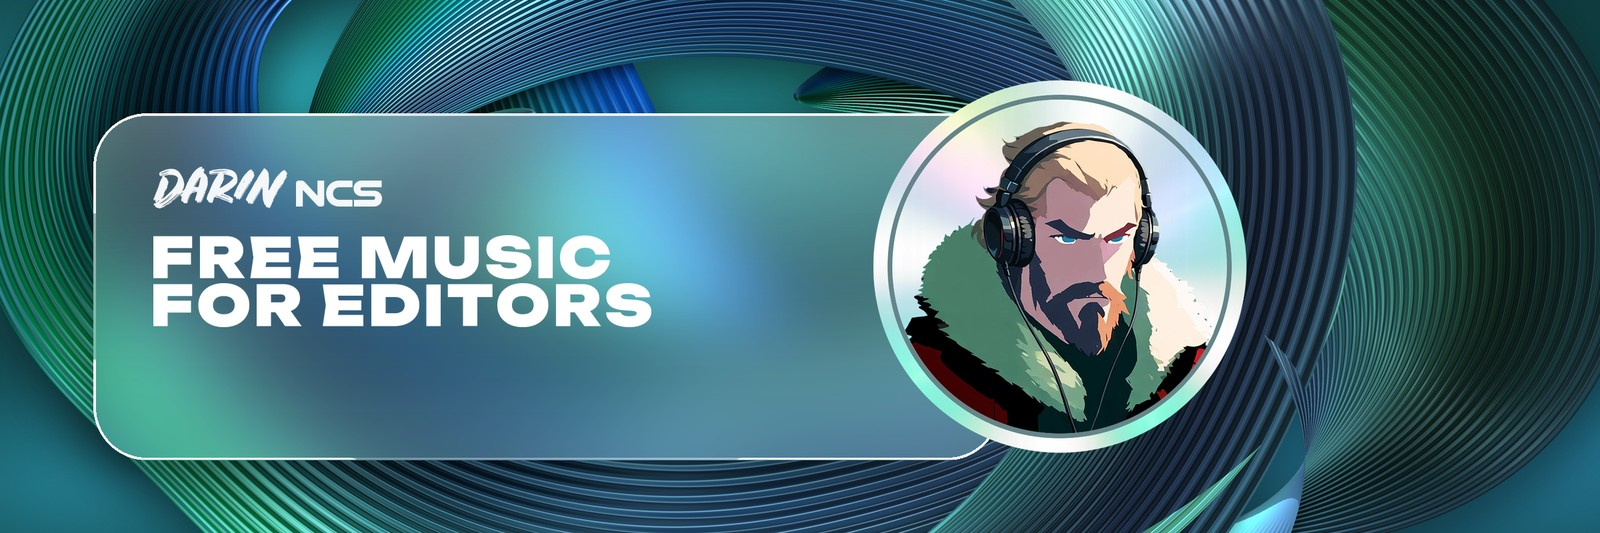
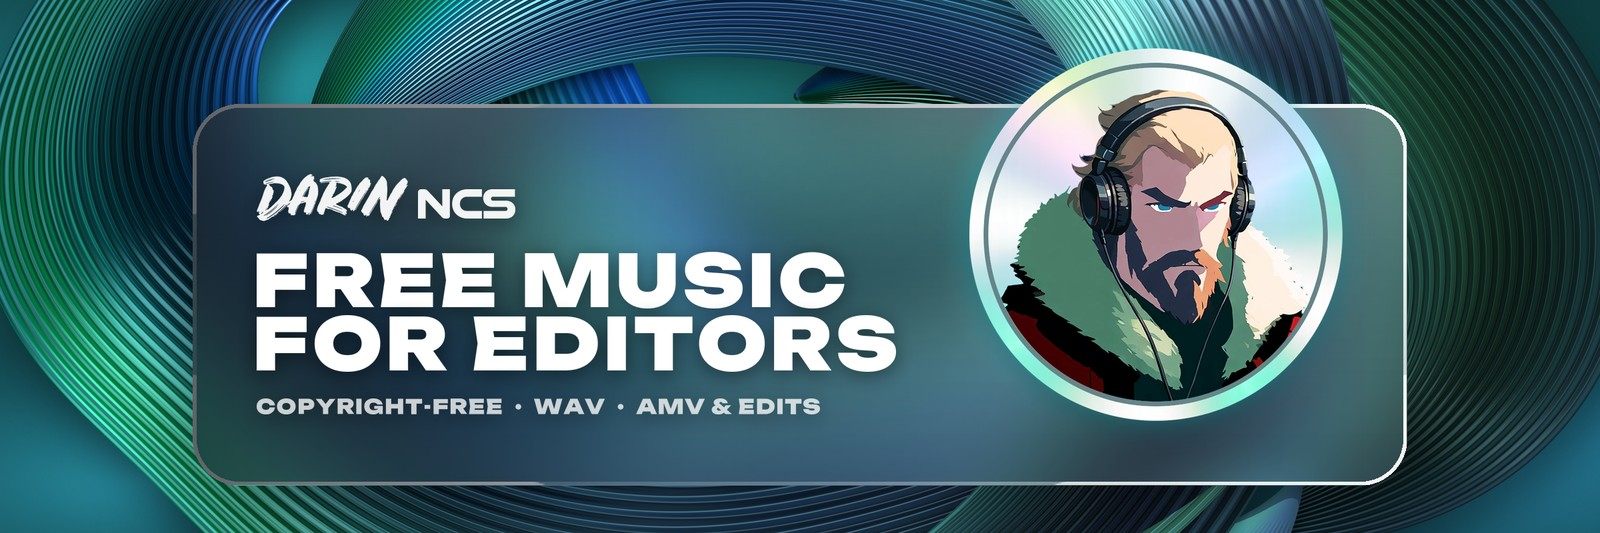
Bannière retravaillée, section sons sur demande
Claude-Session: https://claude.ai/code/session_011qTHqFX8geZ36GEg8kC7wy

diff --git a/README.md b/README.md
@@ -8,7 +8,7 @@
   <img src="https://img.shields.io/badge/Content%20ID-Off-4ADE80?style=for-the-badge" alt="No Content ID">
 </p>
 
-<h3 align="center">Copyright-free dark-pop and cinematic tracks, built for AMV and anime edits.</h3>
+<h3 align="center">Copyright-free dark-pop and cinematic tracks, built for AMV and anime edits. Custom tracks on request.</h3>
 
 Every track is mastered, cut for editing (early drops, clean silences, a slow bridge for slow-mo) and free to use in your edits. Grab the studio-quality **WAV** here, put it in your timeline, and go.
 
@@ -19,6 +19,18 @@ Every track is mastered, cut for editing (early drops, clean silences, a slow br
 | <img src="assets/covers/chrome-heart.jpg" width="96" alt="Chrome Heart cover"> | **Chrome Heart**<br><sub>Dark-pop cyberpunk · 140 BPM · 3:28</sub> | Cyberpunk: Edgerunners | `0:54` countdown<br>`0:56` **drop**<br>`1:52` drop<br>`2:20` slow bridge<br>`2:36` final drop | [YouTube](https://youtu.be/2rQTyI1UJbo) | [WAV](https://github.com/Akwice/darin-ncs-free-music/raw/main/tracks/Darin_NCS_-_Chrome_Heart.wav) |
 
 <sub>New tracks every week. All WAV files are 24-bit / 44.1 kHz stereo, mastered at about −12 LUFS.</sub>
+
+## Tracks on request
+
+Need a track for your next edit? Send me three things and I'll make it:
+
+| | |
+|---|---|
+| **Theme** | revenge, awakening, heartbreak, villain arc, last stand... |
+| **Anime or character** | the show, arc or character you're editing |
+| **Music style** | dark-pop, phonk, rock, cinematic, slowed, EDM drop... |
+
+Email **darin.gmv@gmail.com** with "Request" in the subject. Requested tracks come out on the channel and in this repo, copyright-free like the others.
 
 ## How to use them
 
